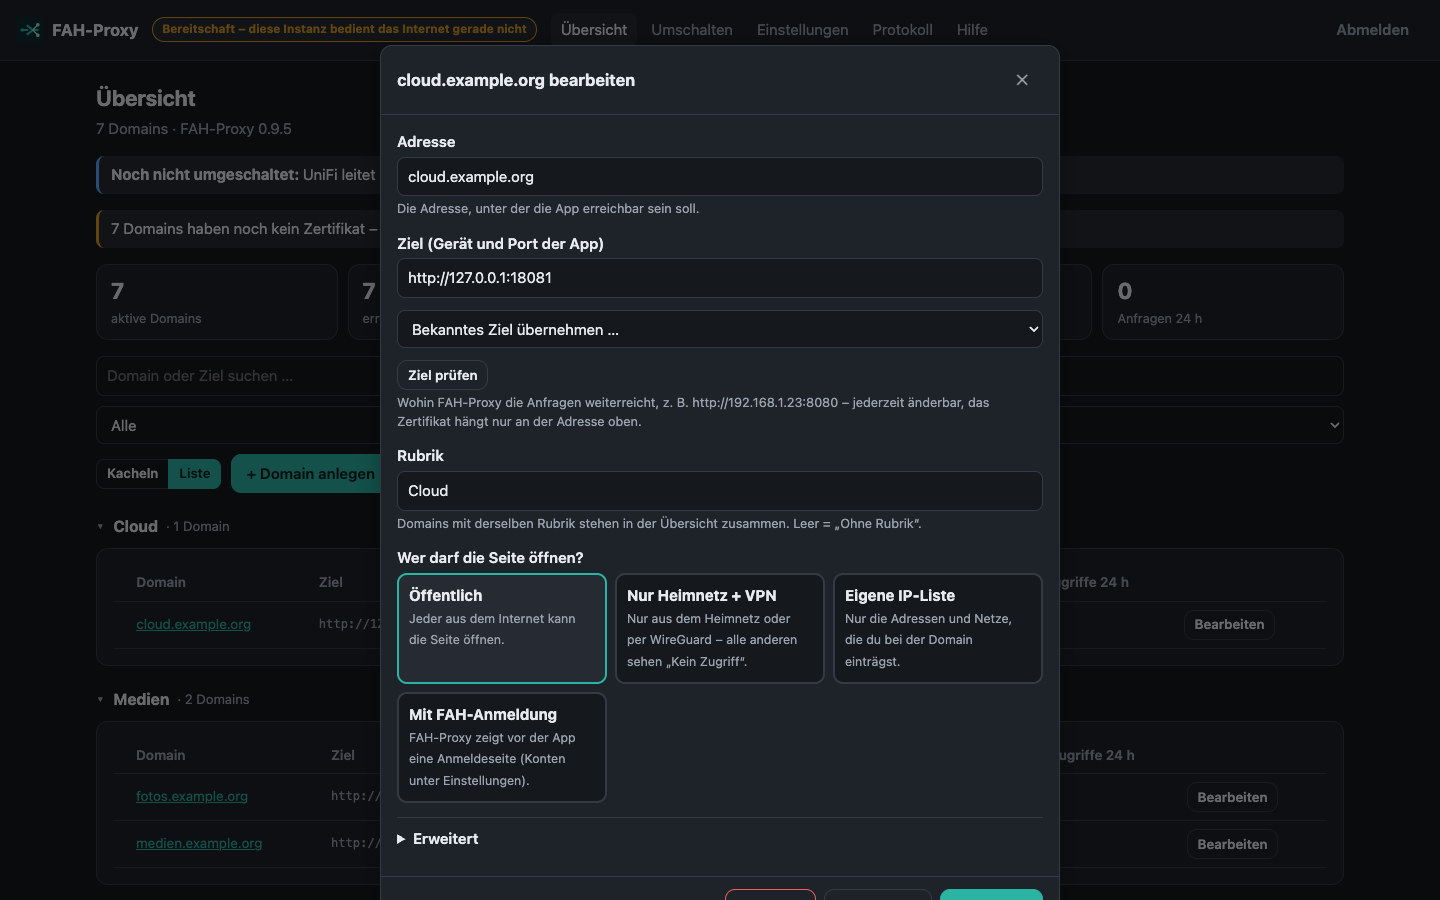
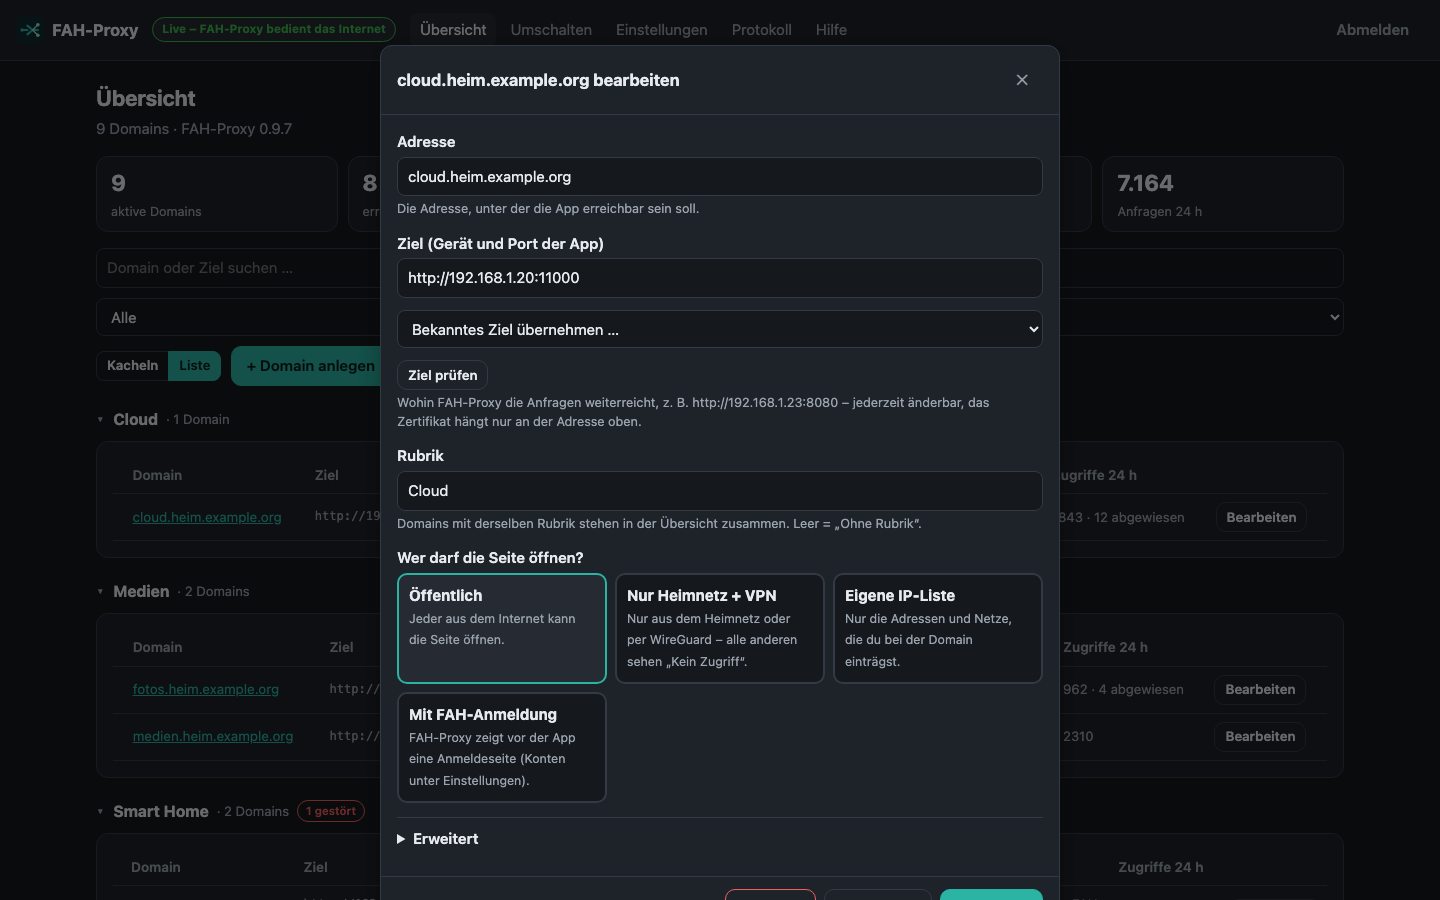
Stand vom 28.11.2026 (FAH-Git 0618d41684)

diff --git a/public/ansichten/protokoll.js b/public/ansichten/protokoll.js
@@ -33,7 +33,7 @@ export async function zeigen(wurzel) {
   const liste = await api('GET', '/api/protokoll');
   wurzel.append(el('h1', { text: 'Protokoll' }), el('p', { class: 'unter', text: 'Änderungen und Störungen, neueste zuerst.' }));
   if (!liste.length) { wurzel.append(el('p', { class: 'leise', text: 'Noch keine Einträge.' })); return; }
-  wurzel.append(el('div', { class: 'karte huelle' }, el('table', { class: 'tabelle' },
+  wurzel.append(el('div', { class: 'karte huelle' }, el('table', { class: 'tabelle protokoll' },
     el('thead', {}, el('tr', {}, el('th', { text: 'Zeit' }), el('th', { text: 'Wer' }), el('th', { text: 'Was' }), el('th', { text: 'Domain' }), el('th', { text: 'Einzelheiten' }))),
     el('tbody', {}, ...liste.map((e) => el('tr', {}, el('td', { text: zeit(e.zeit) }), el('td', { text: e.wer }), el('td', { text: TEXT[e.aktion] || e.aktion }), el('td', { class: 'mono', text: e.ziel || '' }), el('td', { class: 'leise', text: details(e) })))))));
 }

diff --git a/public/stil.css b/public/stil.css
@@ -150,6 +150,8 @@ details.rubrik[open] > summary::before { transform: rotate(90deg); }
 .domainliste td:nth-child(2), .domainliste td:nth-child(4), .domainliste td:nth-child(8) { white-space: nowrap; }
 .domainliste td:nth-child(5) { min-width: 14ch; }
 .domainliste tr.aus { opacity: .55; }
+/* Protokoll: Zeit und Domain nie mitten im Wort umbrechen – lieber waagrecht scrollen; Einzelheiten dürfen umbrechen */
+.protokoll td:nth-child(1), .protokoll td:nth-child(4) { white-space: nowrap; }
 /* Hilfe: aufklappbare Karten mit nummerierten Schritten */
 details.hilfe { margin: 0 0 12px; }
 details.hilfe > summary { cursor: pointer; display: flex; flex-wrap: wrap; align-items: baseline; gap: 4px 8px; list-style: none; }

diff --git a/README.md b/README.md
@@ -12,19 +12,47 @@ Reverse-Proxy mit einfacher Oberfläche – Caddy als Motor, Zertifikate automat
   legt damit seine Gerätenamen (`dns-<name>.<basis>`) für den Schutz unterwegs selbst an und löscht sie wieder –
   nur in der Gruppe „AdBlock DNS Domains“, fremde Domains bleiben unberührt. Die Zertifikate holt es sich von hier.
 
-## Screenshots
+## So sieht es aus
 
-*Aufgenommen mit erfundenen Beispiel-Domains (`*.example.org`) und Platzhalter-Zielen – keine echten Adressen oder Daten.*
+*Aufgenommen aus einer Wegwerf-Instanz mit erfundenen Daten: Domains `*.heim.example.org`, Ziele `192.168.1.x`,
+Konto `max.mustermann`. Es sind keine echten Adressen oder Daten zu sehen.*
 
 ![Übersicht – Domains als Kacheln mit Status, Schutz und Zertifikat](docs/screenshots/1-uebersicht.png)
 
-| Liste | Domain bearbeiten |
-|---|---|
-| ![Liste](docs/screenshots/2-liste.png) | ![Domain bearbeiten](docs/screenshots/3-domain-bearbeiten.png) |
-| **Einstellungen & Schutzstufen** | **Umschalten (Fail-over)** |
-| ![Einstellungen](docs/screenshots/4-einstellungen.png) | ![Umschalten](docs/screenshots/6-umschalten.png) |
-| **Protokoll** | **Handy** |
-| ![Protokoll](docs/screenshots/5-protokoll.png) | <img src="docs/screenshots/7-handy.png" alt="Handy" width="260"> |
+Die **Übersicht** zeigt oben die Kennzahlen und darunter je Rubrik eine Kachel pro Domain mit Ziel, Schutzstufe, Status,
+Zertifikat und Zugriffen der letzten 24 h. Eine gestörte App fällt mit rotem Punkt und dem Grund sofort auf.
+
+![Liste – alle Domains als Tabelle](docs/screenshots/2-liste.png)
+
+Die **Liste** zeigt dieselben Domains kompakt als Tabelle, eine Zeile je Domain, zum schnellen Durchsehen vieler Einträge.
+
+![Domain bearbeiten – Adresse, Ziel, Rubrik und Schutzstufe](docs/screenshots/3-domain-bearbeiten.png)
+
+Unter **Domain bearbeiten** ändert man Adresse, Ziel und Rubrik und wählt per Kachel, wer die Seite öffnen darf.
+
+![Einstellungen – Allgemein, Schutzstufen, Passwort, Benachrichtigungen](docs/screenshots/4-einstellungen.png)
+
+In den **Einstellungen** stehen die E-Mail für Let's Encrypt, die Schutzstufen mit der Zahl ihrer Domains, das eigene
+Passwort und die ntfy-Warnungen.
+
+![Protokoll – wer hat wann was geändert](docs/screenshots/5-protokoll.png)
+
+Das **Protokoll** listet jede Änderung und jede Störung mit Zeit, Urheber und Einzelheiten, die neuesten zuerst.
+
+![Umschalten – Stand, Fail-over und Prüfliste](docs/screenshots/6-umschalten.png)
+
+**Umschalten** zeigt, ob diese Instanz das Internet bedient, ob die Ersatz-Instanz antwortet und ob Caddy, Ziele,
+Zertifikate und die UniFi-Konsole in Ordnung sind.
+
+<img src="docs/screenshots/7-handy.png" alt="Übersicht am Handy" width="260">
+
+Am **Handy** ordnet sich die Oberfläche untereinander an, alle Funktionen bleiben erreichbar.
+
+Die Bilder macht `node tools/bildschirmfotos.mjs` neu (nach jeder sichtbaren Änderung). Das Skript startet eine
+Wegwerf-Instanz mit erfundenen Daten und bedient die Oberfläche in Chromium headless: anmelden, Domain anlegen,
+Liste und Kacheln, Domain bearbeiten. Jede Ansicht prüft es zusätzlich schmal (720 px) und breit (2200 px).
+Mit `--nur-probe` läuft es nur als Bedienprobe, mit `--breiten <ordner>` legt es die Schmal- und Breit-Aufnahmen
+zum Ansehen ab.
 
 ## Installation
 `fah-proxy_release.zip` und `manage.sh` in einen leeren Ordner legen, dann `./manage.sh update`.
